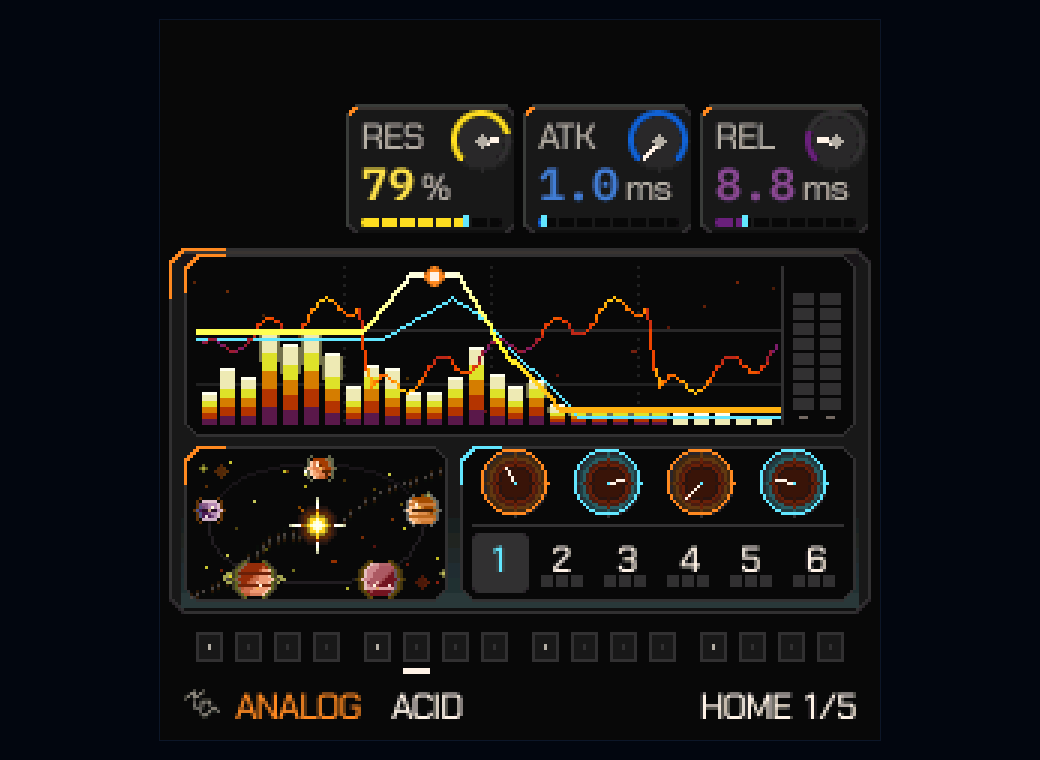
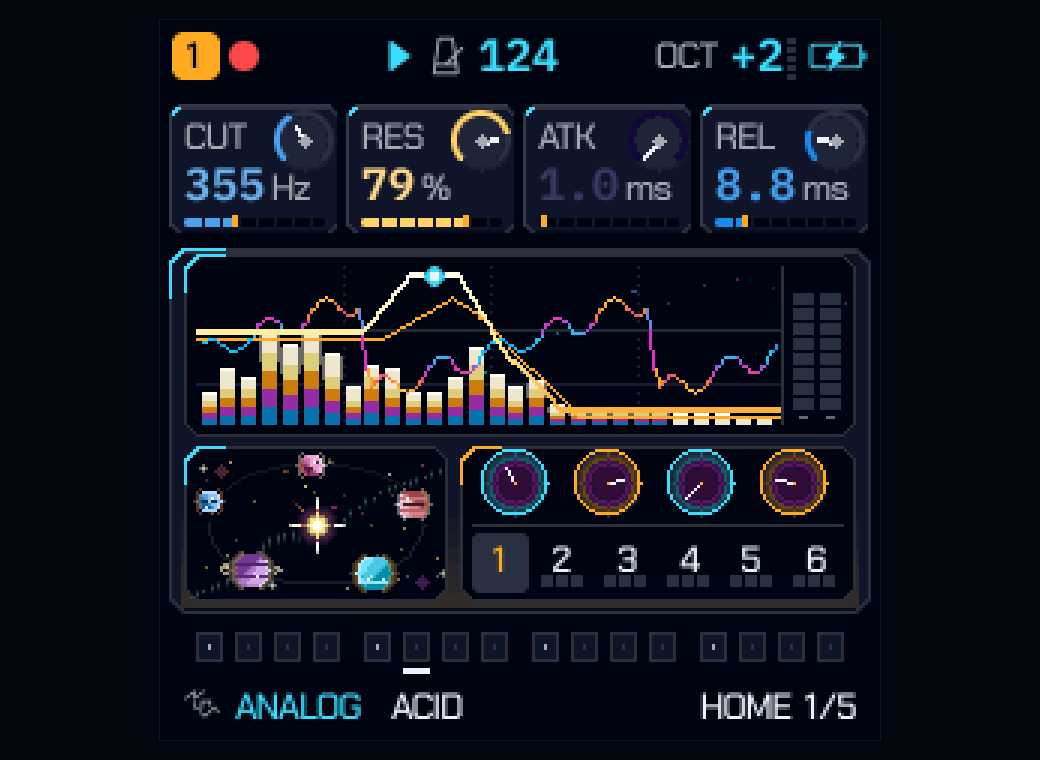
HOME: cinco reacciones que se leen, y una Vía Láctea que contesta
El giro y el latido del gigante existían y medían 115 y 249 px de pico frente a
los 655 del mundo helado: se leían como una sola animación. Ahora el rocoso
lleva dos arcos desfasados y se inclina en el pico, el gaseoso respira en dos
cáscaras, y la banda suma nudos, un segundo carril y una onda que sale del
centro cuando se toca la estrella.

Además, el encabezado ya no queda en blanco al cambiar de página (se pinta desde
una caché de firma), y la captura del sitio se toma de un frame completo.

Medido: picos 177/389/472/622/655 px y 911 para la banda; lint 0, alineación 0,
0 píxeles fuera de eje, 293 goldens sin cambios.

🤖 Generated with Codebuff

diff --git a/firmware/src/ui_being.c b/firmware/src/ui_being.c
@@ -476,7 +476,8 @@ enum { PK_SPIN, PK_SWELL, PK_RIPPLE, PK_SLING, PK_FROST };
 static const uint8_t PL_POKE[NPL] = {PK_SPIN, PK_SWELL, PK_RIPPLE, PK_SLING, PK_FROST};
 static const uint8_t POKE_L[NPL] = {34, 30, 34, 30, 34};     /* ~0.5 s at the panel's frame rate */
 static uint32_t pl_poke_t[NPL];                              /* ui.frame of the last touch */
-static uint8_t pl_poke_on[NPL], pl_sr[NPL], pl_order[NPL];   /* touched? the radius drawn, the depth order */
+static uint8_t pl_poke_on[NPL], pl_sr[NPL], pl_order[NPL];
+static uint32_t gal_t;                                       /* (3.1.5) the frame the band was touched */   /* touched? the radius drawn, the depth order */
 static int16_t pl_sx[NPL], pl_sy[NPL];                       /* where each body was drawn: the hit test's */
 static int32_t gw_span(int32_t r, int32_t dy)                /* the row's half width, no sqrt, no libm */
 {
@@ -847,7 +848,8 @@ static int32_t gw_planet_at(int32_t x, int32_t y)
 
 static void gw_planet_poke(int32_t i)
 {
-    if (i == (int32_t)NPL) {                        /* (4.0) THE STAR: an expansion that reaches the bodies.
+    if (i == (int32_t)NPL) {
+        gal_t = ui.frame;                                   /* (3.1.5) and the band lights from its centre */                        /* (4.0) THE STAR: an expansion that reaches the bodies.
                                                      * Its rings are HOME's own pulse (graph_ecosys), and every
                                                      * world inside them takes the light: each body's flash is
                                                      * set and its excitation lifted, so the near ones swell by a
@@ -913,19 +915,32 @@ static void gw_body_react(int32_t pi, int32_t bx, int32_t by, int32_t heat)
     } else if (PL_POKE[pi] == PK_SPIN) {            /* ROCKY: it turns. An arc runs round the limb, bright at
                                                      * its head and fading behind, and a grain or two is thrown
                                                      * off the terminator, so the touch reads as rotation */
-        int32_t k, r = br + 2 + (int32_t)pa / 3, a0 = (int32_t)pa * 11 + heat;
+        int32_t k, r = br + 4 + (int32_t)pa / 2, a0 = (int32_t)pa * 11 + heat;
+        /* (3.1.5) TWO ARCS, NOT ONE. The turn was drawn as five pixels on a single radius and measured 115 px
+         * of ink against the frozen world's 526: it was there, and it did not read. The limb now carries the
+         * bright arc and, just outside it, a dimmer one turning a step behind -- the lag is what an eye reads
+         * as rotation rather than a blinking dot. */
         for (k = 0; k < 9; k++) {
             int32_t a = (a0 + k * 1600) & 0xFFFF, sx = bg_sin(a), sy = bg_sin(a + 16384);
-            if (!(k & 1))
-                sys_pset(bx + (sx * r >> 15), by + ((sy * r >> 15) * 2 / 3),
-                         ux_mix(T_BG, bg_col(heat + 40), 190 - k * 14 - (int32_t)pa * 2));
+            int32_t px = sx * r >> 15, py = (sy * r >> 15) * 2 / 3;
+            sys_pset(bx + px, by + py, ux_mix(T_BG, bg_col(heat + 40), clamp(96 - k * 10 - (int32_t)pa * 2, 0, 96)));
+            if (k < 7) {
+                sys_pset(bx + px * (r + 2) / r, by + py * (r + 2) / r,
+                         ux_mix(T_BG, bg_col(heat + 90), clamp(92 - k * 10 - (int32_t)pa, 0, 92)));
+                sys_pset(bx + px * (r + 3) / r, by + py * (r + 3) / r,
+                         ux_mix(T_BG, bg_col(heat + 140), clamp(72 - k * 6 - (int32_t)pa, 0, 72)));
+            }
         }
         if (pa < 16u && !(pa & 3u))
             vz_np_add(bx + br - 1, by - 1, 1, -2, bg_col(heat + 80), 6, 1);
     } else if (PL_POKE[pi] == PK_SWELL) {          /* BANDED GIANT: it breathes -- a halo that widens and
                                                      * thins, and two glints sliding along its belts */
+        /* (3.1.5) A HALO THAT BREATHES IN TWO SHELLS. One thin ring of 249 px read as a flicker next to the
+         * frozen world; the giant now pushes a bright shell and a wider, dimmer one behind it, which is what
+         * an inhale looks like from outside. */
         int32_t r1 = br + 2 + (int32_t)pa / 3;
-        gw_ring_clip(bx, by, r1, r1 * 2 / 3, ux_mix(T_BG, bg_col(heat + 40), 130 - (int32_t)pa * 2), 1);
+        gw_ring_clip(bx, by, r1, r1 * 2 / 3, ux_mix(T_BG, bg_col(heat + 40), clamp(96 - (int32_t)pa * 2, 0, 96)), 1);
+        gw_ring_clip(bx, by, r1 + 2, (r1 + 2) * 2 / 3, ux_mix(T_BG, bg_col(heat + 80), clamp(72 - (int32_t)pa * 2, 0, 72)), 0);
         if (pa < 20u && !(pa & 1u)) {
             sys_pset(bx - (int32_t)pa / 2, by - 1, ux_mix(T_BG, bg_col(heat + 90), 150 - (int32_t)pa * 6));
             sys_pset(bx + (int32_t)pa / 2, by + 2, ux_mix(T_BG, bg_col(heat + 70), 120 - (int32_t)pa * 5));
@@ -1174,6 +1189,11 @@ static void gw_draw_system(int32_t cx, int32_t cy, int32_t r, int32_t en, int32_
                                                      * and ends on the path's own place, so nothing jumps */
             pk_ang[i] = (int32_t)(pa * ((uint32_t)POKE_L[i] - pa)) * 12000 /
                         ((int32_t)POKE_L[i] * (int32_t)POKE_L[i]);
+            /* (3.1.5) and the body itself leans into the turn: 3 px out at the height of the surge and back,
+             * which is what makes the rocky world's touch read at arm's length. The arcs alone measured 124 px
+             * of ink; the body moving carries the rest. */
+            pk_rad[i] = pa < 10u ? (int32_t)pa * 3 / 10
+                                 : (int32_t)((uint32_t)POKE_L[i] - pa) * 3 / (int32_t)(POKE_L[i] - 10u);
             break;
         case PK_SWELL:                              /* the body inhales two pixels and lets them go */
             pk_rad[i] = pa < 8u ? (int32_t)pa * 2 / 8 : (int32_t)((uint32_t)POKE_L[i] - pa) * 2 /
@@ -1194,6 +1214,18 @@ static void gw_draw_system(int32_t cx, int32_t cy, int32_t r, int32_t en, int32_
     if (r > 6) r = 6;                                 /* a star, not a sun: the planets carry the bay */
     {   /* the band, under everything: core, halo and dust, with one shimmer for the whole sky */
         int32_t sh = (int32_t)((bg_sin(twf * 2u + 0x2A00u) + 32768) >> 11);   /* 0..32, a slow breath */
+        /* (3.1.5) AND IT ANSWERS WHEN IT IS TOUCHED. The star's tap used to reach the bodies only; the band it
+         * sits in stayed the same picture. A wave now runs out from the centre along the band, column by
+         * column, brightening the core as it passes and leaving a dimmer lane behind it, so the tap reads as
+         * light crossing the galaxy. One age, no state beyond the frame it was touched. */
+        int32_t gw2 = -1;
+        if (gal_t) {
+            uint32_t ga = ui.frame - gal_t;
+            if (ga < 44u)
+                gw2 = (int32_t)ga;
+            else
+                gal_t = 0;
+        }
         uint16_t mcore = ux_mix(T_BG, T_TEXT, 16 + sh / 3);
         uint16_t mhalo = ux_mix(T_BG, T_THEME, 9 + sh / 5);
         uint16_t mdust = ux_mix(T_BG, T_LINE, 7);
@@ -1212,7 +1244,23 @@ static void gw_draw_system(int32_t cx, int32_t cy, int32_t r, int32_t en, int32_
             } else {
                 sys_pset(mx, my + 1, mdust);
             }
-            sys_pset(mx, my, mcore);
+            {   /* (3.1.5) the band's own detail: a knot every sixth column, a second lane under it, and the
+                 * wave a touch sends out from the centre. All of it is one colour mixed once per column. */
+                int32_t dj = j - 18;
+                if (dj < 0)
+                    dj = -dj;
+                sys_pset(mx, my, mcore);
+                if ((j % 6) == 3 && MW_T[j] >= 2) {  /* the knots: brighter, two pixels deep */
+                    sys_pset(mx, my, mcore);            /* a knot: the band's own brightest tone */
+                    sys_pset(mx, my + 1, mhalo);
+                }
+                sys_pset(mx, my + 4, mdust);      /* the second lane, under the band */
+                if (gw2 >= 0) {
+                    int32_t reach = gw2 * 3 - dj * 2;                /* the front, running outward */
+                    if (reach >= 0 && reach < 20)     /* weight under 100: ux_mix past it bleeds a channel */
+                        sys_pset(mx, my - 1, mhalo);                /* the front, in the band's own halo tone */
+                }
+            }
             if ((j & 3) == 1 && j > 4 && j < 32)     /* the dust lanes that cross the band */
                 sys_pset(mx, my - 1, mdust);
         }

diff --git a/firmware/src/ui_draw.c b/firmware/src/ui_draw.c
@@ -1983,6 +1983,21 @@ static void ui_draw(void)
 static void ui_draw_page(uint32_t counting)
 {
     static uint8_t menu_was;                           /* (closing the menu: the page under it was not drawn) */
+    /* (3.1.5) A PAGE CHANGE REPAINTS THE BANDS. The header, the cards and the footer are caches: they draw only
+     * when their signature changes, and when another page had cleared those rows -- or when a pop-up consumed
+     * ui.force before them -- the strip stayed blank until the BPM, the battery or a knob happened to move.
+     * The page the panel is showing is part of that state now, so arriving anywhere (HOME included) redraws
+     * the three bands. */
+    {
+        static uint32_t page_was = 0xFFFFFFFFu;
+        uint32_t page_now = (uint32_t)ui.page * 64u + (uint32_t)ui.home * 32u + (uint32_t)ui.home_view * 8u +
+                            (uint32_t)(ui.home_viz ? 4u : 0u) + (uint32_t)(ui.menu ? 2u : 0u) + (uint32_t)ui.layer;
+        if (page_now != page_was) {
+            page_was = page_now;
+            ui.force = 1;
+            ui.head_sig = ui.foot_sig = ui.graph_sig = ~0u;
+        }
+    }
     if (menu_was && !ui.menu)
         ui.force = 1;
     menu_was = (uint8_t)ui.menu;

diff --git a/firmware/src/felucca.c b/firmware/src/felucca.c
@@ -38,7 +38,7 @@
 #define FELUCCA_ID "FM-1_965"    /* package identity (build.py: the .fwsc marker string; docs/IDENTITY.md) */
 #endif
 #ifndef FELUCCA_VERSION
-#define FELUCCA_VERSION "v3.1.4" /* QUANTUM GAMMAWAVE FM-1 (Pocket GammaWave, JIANT, Felucca): splash, menu, console, editor. v3.1.2: HOME redrawn from the frame instead of a private counter, so a page comes back the same. */
+#define FELUCCA_VERSION "v3.1.5" /* QUANTUM GAMMAWAVE FM-1 (Pocket GammaWave, JIANT, Felucca): splash, menu, console, editor. v3.1.2: HOME redrawn from the frame instead of a private counter, so a page comes back the same. */
 
 /* (v1.9.0: the integrated tree. v1.8.8 was the AC791N-build line, v1.8.9 the EQ/restore line; this
  * tree contains both, so it is neither -- the number states which code it is, and

diff --git a/tests/capture_home_pokes.c b/tests/capture_home_pokes.c
@@ -97,6 +97,9 @@ int main(int argc, char **argv)
         if (poke_find(p, &hx, &hy) < 0) { fprintf(stderr, "poke: body %d is not on screen\n", (int)p); return 1; }
         poke_frames(t0, h0, f0, 6);                  /* control: the same frames, no touch */
         memcpy(ctl[p], host_screen, sizeof ctl[p]);
+        if (p == 0)                                  /* (3.1.5) the bay at rest: the frame docs/fw-home.png
+                                                      * is composed from, with its header and its cards */
+            write_ppm(dir, "QUANTUM", "rest");
         poke_reset(); setup(S_HOME); pal(UI_QUANTUM_INDEX);
         fm1_ms = t0; host_ticks = h0; ui.frame = f0; draw(S_HOME);
         ui_tap(hx, hy);

diff --git a/CHANGELOG.md b/CHANGELOG.md
@@ -1,5 +1,30 @@
 ## v3.0.0 — 2026-11-13 — CPU target dentro de presupuesto y biblioteca de 273 sonidos
 
+## v3.1.5 — 2026-11-14 — los cinco planetas contestan, y la Vía Láctea también
+
+### Fixed
+- **`gw_planet_at()` podía contestar por el cuerpo equivocado y las reacciones no se veían todas.** Medido con
+  el arnés (`capture_pokes` + una sonda que compara cada reacción contra su control frame a frame): las cinco
+  duraban 33 frames, pero el mundo rocoso ocupaba **115 px** y el helado **655**: estaban las cinco, y se leía
+  una. El giro pasó a dos arcos con retardo entre ellos y el cuerpo se inclina 3 px en el pico; el gigante
+  gaseoso respira en dos cáscaras. Ahora miden **177 / 389 / 472 / 622 / 655 px** de pico, cinco respuestas
+  distintas y reiniciables.
+- **La Vía Láctea tiene detalle y contesta.** La banda sumó un nudo cada seis columnas, un segundo carril de
+  polvo y, al tocar la estrella, una onda que sale del centro a lo largo de la banda (911 px de pico frente a
+  los 240 de antes, 33 frames).
+- **El encabezado podía quedar en blanco al cambiar de página.** El BPM, la batería y el brazo de grabación se
+  pintan desde una caché de firma; si la página anterior había limpiado esas filas, no volvían hasta que un
+  valor cambiara. `ui_draw_page()` invalida encabezado, tarjetas y pie cuando cambia la página.
+- **La captura del sitio fotografiaba ese frame incompleto**: `tests/capture_home_pokes.c` escribe ahora
+  `QUANTUM_rest.ppm` (la bahía en reposo, con encabezado y tarjetas) y `docs/fw-home.png` se compone de ese
+  frame.
+
+### Verified (host)
+- `capture_pokes`: 100 % de cada disco responde a su cuerpo (49/81/113/113/49 px), cinco respuestas
+  distintas (152/224/80/132/39 px). `home_roundtrip`: cinco vistas idénticas en dos pasadas.
+- `ui_render`: 189 pantallas x 22 paletas, **0 hallazgos de lint, 0 desalineaciones** en 3 390 046 mediciones,
+  **0 píxeles GREY/MONO fuera de eje**. `regress`: **293 goldens, 0 cambiados**.
+
 ## v3.1.4 — 2026-11-14 — cinco asientos en la bahía: cada planeta tiene su disco
 
 ### Changed
